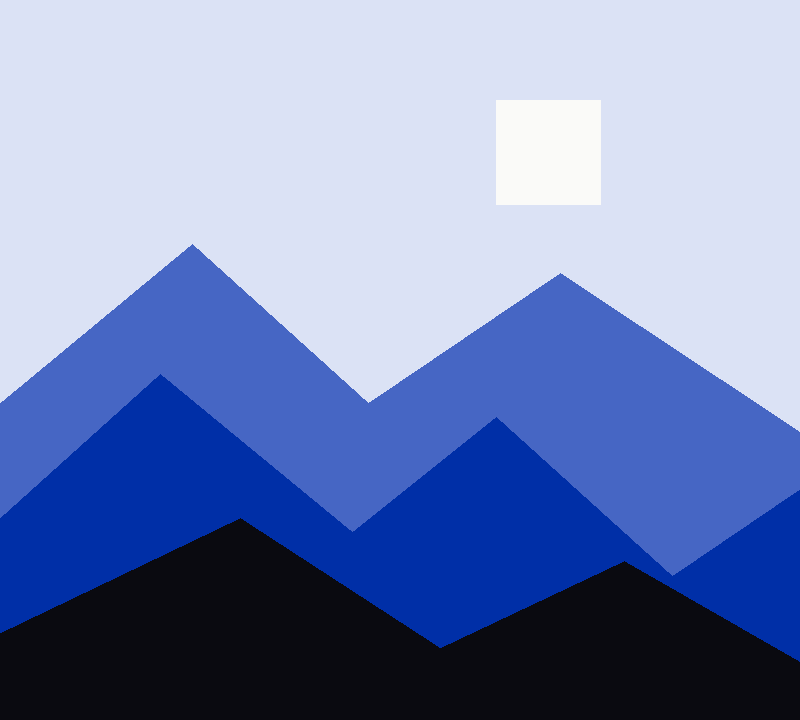
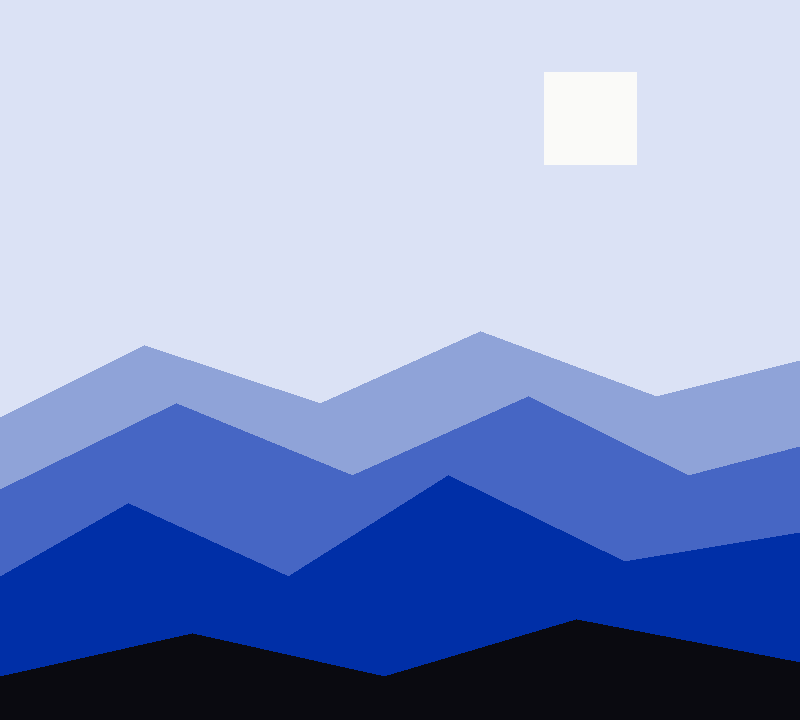
docs: tighten README; recompose the example illustration
README cut to roughly half the words — one install block (bun link
inline), merged plugin/copy options, terser CLI section. Illustration
recomposed: four ramp-step ranges with calmer peak rhythm, ~45% open
sky, thin ink grounding band, sun clear of the peaks.

diff --git a/README.md b/README.md
@@ -1,100 +1,63 @@
 # deck-maker
 
-Design a slide deck as HTML with Claude Code, then convert it to a **real, editable
-PowerPoint** — native text, tables, charts, and shapes, not a stack of images.
+Design a slide deck as HTML with Claude Code, convert it to a **real, editable
+PowerPoint** — native text, tables, charts, shapes. Not images.
 
-New here? Read **[docs/overview.md](docs/overview.md)** for what it is and how it works.
-This page is just install & usage.
-
-## Requirements
-
-- [Bun](https://bun.sh) 1.3+ (the engine is Bun/TypeScript; conversion is browser-free).
+What/how: **[docs/overview.md](docs/overview.md)**. This page: install & use.
 
 ## Install
+
+Requires [Bun](https://bun.sh) 1.3+.
 
 ```sh
 git clone https://github.com/iteam1/deck-maker.git
 cd deck-maker
 bun install
+bun link        # puts `deck-maker` on your PATH (~/.bun/bin)
 ```
 
-Keep the clone around — the conversion engine lives in it and the CLI runs from it.
-
-## Add `deck-maker` to your PATH
-
-So you can run `deck-maker` from any folder:
+Verify:
 
 ```sh
-bun link            # in the deck-maker repo — creates ~/.bun/bin/deck-maker
+deck-maker check examples/index.html    # → "13 slide(s), 0 issues, 0 critical"
 ```
 
-That symlinks a global `deck-maker` command (make sure `~/.bun/bin` is on your `PATH` —
-it is by default with Bun). Verify:
+No link? Run in place: `bun /path/to/deck-maker/src/cli.ts …`
+
+## Use with Claude Code
+
+Two skills ship in `skills/`: **deck-author** (writes the HTML) and **deck-convert**
+(runs the engine). Install either way:
 
 ```sh
-deck-maker check examples/index.html      # → "11 slide(s), 0 issues, 0 critical"
-```
-
-**Prefer not to link?** Two alternatives:
-- Run it in place: `bun /path/to/deck-maker/src/cli.ts convert deck.html out.pptx`
-- Or drop a one-line wrapper on your PATH:
-  ```sh
-  printf '#!/usr/bin/env bash\nexec bun /path/to/deck-maker/src/cli.ts "$@"\n' \
-    > ~/.local/bin/deck-maker && chmod +x ~/.local/bin/deck-maker
-  ```
-
-## Use it with Claude Code
-
-deck-maker ships two skills — **deck-author** (writes the HTML) and **deck-convert** (runs
-the engine). Install them one of two ways:
-
-### Option A — as a plugin (shareable)
-
-From Claude Code, add this repo as a plugin marketplace and install it:
-
-```
+# A — plugin:
 /plugin marketplace add /path/to/deck-maker
 /plugin install deck-maker
-```
 
-(Uses `.claude-plugin/marketplace.json`. You can also point `marketplace add` at the
-GitHub URL once it's pushed.)
-
-### Option B — just copy the skills
-
-Copy the two skill folders where Claude Code looks for skills:
-
-```sh
-# available in every project:
+# B — copy skills (global, or into a project's .claude/skills/):
 cp -r skills/deck-author skills/deck-convert ~/.claude/skills/
-
-# or, just this project:
-cp -r skills/deck-author skills/deck-convert <your-project>/.claude/skills/
 ```
 
-Either way, from any project you can now say:
+Then, from any project:
 
 > "Make me a deck about our Q2 results."
 
-Claude authors `deck.html` from the [worked example](examples/index.html), you review it in
-a browser, and on your OK it runs the engine to produce `deck.pptx`.
+Claude writes `deck.html` (from the [worked example](examples/index.html)), you review in
+a browser, on your OK it produces `deck.pptx`.
 
-## Use the CLI directly
+## CLI
 
 ```sh
-deck-maker check   deck.html              # validate geometry (rails, charts, images)
-deck-maker convert deck.html deck.pptx    # → a native, editable .pptx
+deck-maker check   deck.html              # validate geometry
+deck-maker convert deck.html deck.pptx    # check + convert
 ```
 
-From inside the repo you can also use the scripts: `bun run check …` / `bun run convert …`.
-`convert` runs `check` first and refuses on critical issues.
-
-Open the result in PowerPoint, Keynote, Google Slides, or LibreOffice.
+Opens in PowerPoint, Keynote, Google Slides, LibreOffice.
 
 ## Docs
 
-- **[docs/overview.md](docs/overview.md)** — what it is, the fidelity ladder, how it works.
-- **[docs/design.md](docs/design.md)** — engine internals (components, dataflow, workflow).
-- **[docs/IR.md](docs/IR.md)** — the `Deck` intermediate-representation contract.
-- **[skills/deck-author/references/design.md](skills/deck-author/references/design.md)** —
-  the design playbook (palette, type scale, archetype pool) the agent authors against.
+- [docs/overview.md](docs/overview.md) — what it is, the fidelity ladder
+- [docs/design.md](docs/design.md) — engine internals
+- [docs/IR.md](docs/IR.md) — the `Deck` IR contract
+- [skills/deck-author/references/design.md](skills/deck-author/references/design.md) —
+  the design playbook